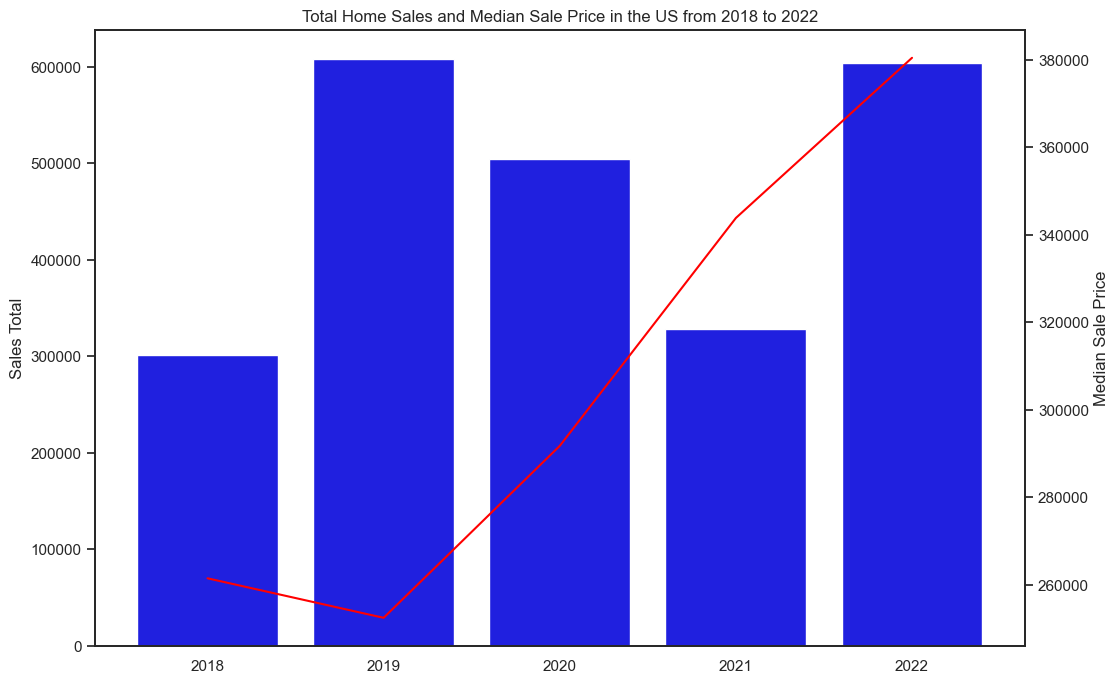
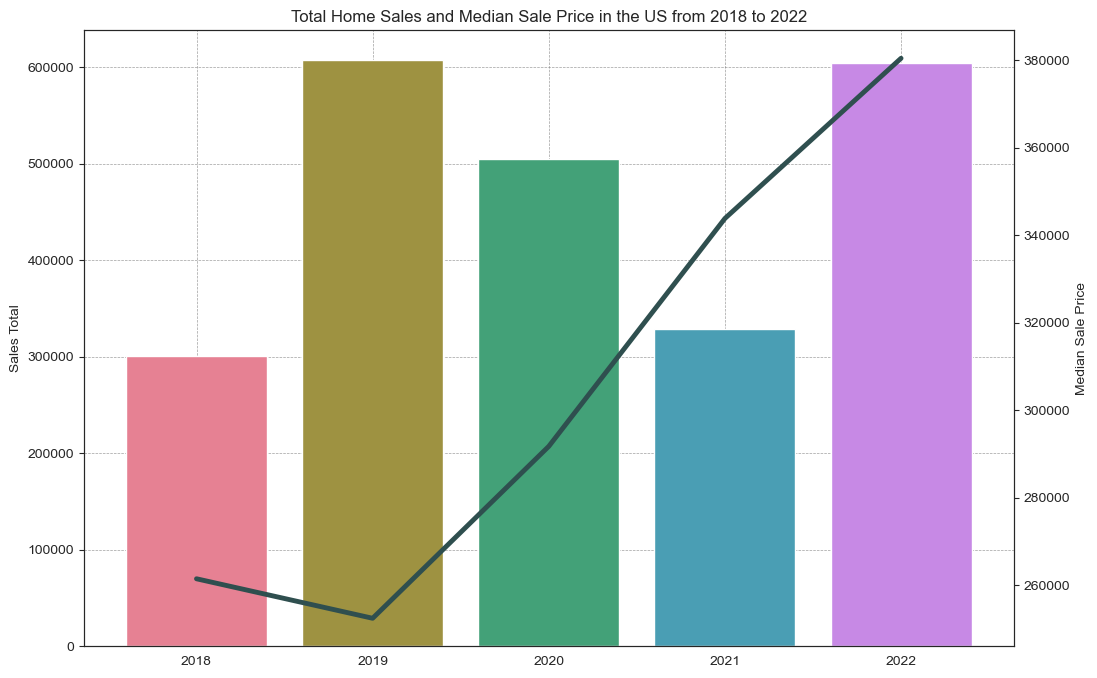
Updated graph style

diff --git a/bar_line_plot/barline_app.py b/bar_line_plot/barline_app.py
@@ -83,18 +83,24 @@ def plot_with_secondary_axis(y_variable):
         data=us_data,
         x=us_data.index,
         y=us_data["Sales Total"],
-        color="blue",
+        palette="husl",
         saturation=0.75,
         fill=True,
     )
-    sns.set_style("white")
-    sns.color_palette("husl", 9)
+    plt.grid(axis="both", color="gray", linestyle="--", linewidth=0.5, alpha=0.75)
 
     # Create a secondary y-axis
     ax2 = plt.gca().twinx()
 
     # Your Seaborn line plot
-    sns.lineplot(x=us_data.index, y=y_variable, data=us_data, color="red", ax=ax2)
+    sns.lineplot(
+        x=us_data.index,
+        y=y_variable,
+        data=us_data,
+        color="darkslategrey",
+        ax=ax2,
+        linewidth=3.5,
+    )
 
     # Set x-axis ticks and labels
     plt.xticks(ticks=us_data.index, labels=us_data["Year"])
